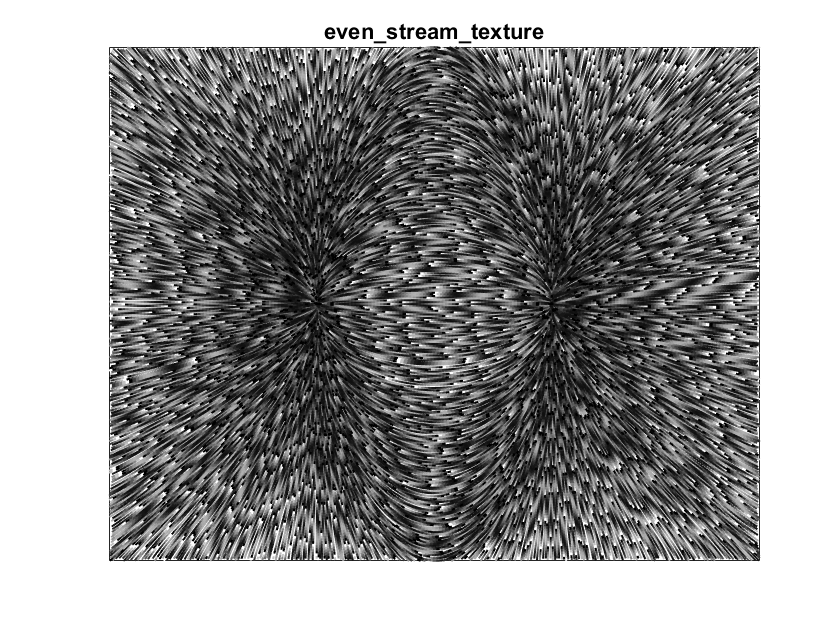
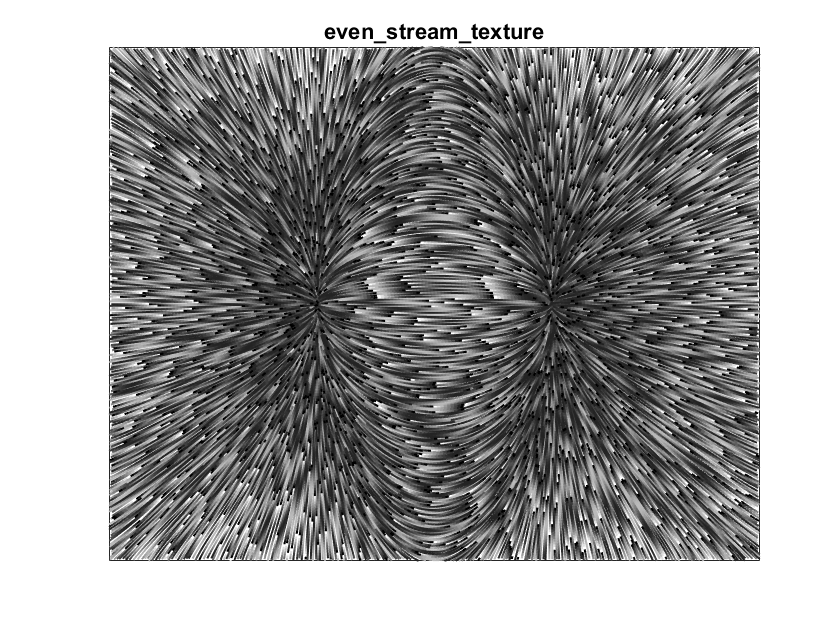
Updated docs, noted remaining tasks

diff --git a/even_stream_demo.html b/even_stream_demo.html
@@ -6,7 +6,7 @@
    <!--
 This HTML was auto-generated from MATLAB code.
 To make changes, update the MATLAB code and republish this document.
-      --><title>Evenly Spaced Streamlines</title><meta name="generator" content="MATLAB 9.0"><link rel="schema.DC" href="http://purl.org/dc/elements/1.1/"><meta name="DC.date" content="2016-10-02"><meta name="DC.source" content="even_stream_demo.m"><style type="text/css">
+      --><title>Evenly Spaced Streamlines</title><meta name="generator" content="MATLAB 9.0"><link rel="schema.DC" href="http://purl.org/dc/elements/1.1/"><meta name="DC.date" content="2016-10-03"><meta name="DC.source" content="even_stream_demo.m"><style type="text/css">
 html,body,div,span,applet,object,iframe,h1,h2,h3,h4,h5,h6,p,blockquote,pre,a,abbr,acronym,address,big,cite,code,del,dfn,em,font,img,ins,kbd,q,s,samp,small,strike,strong,sub,sup,tt,var,b,u,i,center,dl,dt,dd,ol,ul,li,fieldset,form,label,legend,table,caption,tbody,tfoot,thead,tr,th,td{margin:0;padding:0;border:0;outline:0;font-size:100%;vertical-align:baseline;background:transparent}body{line-height:1}ol,ul{list-style:none}blockquote,q{quotes:none}blockquote:before,blockquote:after,q:before,q:after{content:'';content:none}:focus{outine:0}ins{text-decoration:none}del{text-decoration:line-through}table{border-collapse:collapse;border-spacing:0}
 
 html { min-height:100%; margin-bottom:1px; }
@@ -100,8 +100,8 @@ ax = gca;
 ax.XTick = [];
 ax.YTick = [];
 fprintf(<span class="string">'even_stream_line: %.3f s elapsed\n'</span>, toc);
-</pre><pre class="codeoutput">even_stream_data: 0.674 s elapsed
-even_stream_line: 0.052 s elapsed
+</pre><pre class="codeoutput">even_stream_data: 0.795 s elapsed
+even_stream_line: 0.067 s elapsed
 </pre><img vspace="5" hspace="5" src="even_stream_demo_02.png" style="width:560px;height:420px;" alt=""> <h2>Plot stream lines with arrow glyphs<a name="3"></a></h2><p>Compute streamlines and plot lines with arrow glyphs to indicate flow direction.</p><pre class="codeinput"><span class="comment">% compute</span>
 tic
 xy = even_stream_data(xx, yy, dzdx, dzdy, 0.05, 0.025);
@@ -112,15 +112,15 @@ tic
 hf = figure;
 hf.Name = sprintf(<span class="string">'%s: even stream arrow'</span>, mfilename);
 even_stream_arrow(xy, <span class="string">'LineStyle'</span>, <span class="string">'-'</span>, <span class="string">'LineWidth'</span>, 0.5, <span class="string">'Color'</span>, <span class="string">'k'</span>, <span class="keyword">...</span>
-    <span class="string">'ArrowLength'</span>, 5, <span class="string">'ArrowTipAngle'</span>, 30, <span class="string">'ArrowBaseAngle'</span>, 10, <span class="keyword">...</span>
-    <span class="string">'ArrowSpace'</span>, 10);
+    <span class="string">'ArrowLength'</span>, 4, <span class="string">'ArrowTipAngle'</span>, 30, <span class="string">'ArrowBaseAngle'</span>, 10, <span class="keyword">...</span>
+    <span class="string">'ArrowSpace'</span>, 0.05*range(vv));
 title(<span class="string">'even\_stream\_arrow'</span>);
 ax = gca;
 ax.XTick = [];
 ax.YTick = [];
 fprintf(<span class="string">'even_stream_arrow: %.3f s elapsed\n'</span>, toc);
-</pre><pre class="codeoutput">even_stream_data: 0.714 s elapsed
-even_stream_arrow: 0.435 s elapsed
+</pre><pre class="codeoutput">even_stream_data: 0.621 s elapsed
+even_stream_arrow: 0.645 s elapsed
 </pre><img vspace="5" hspace="5" src="even_stream_demo_03.png" style="width:560px;height:420px;" alt=""> <h2>Plot tapered stream lines<a name="4"></a></h2><p>Plot stream lines with tapering effect, such that line width scales with the distance to the nearest neighboring streamline.</p><pre class="codeinput"><span class="comment">% compute</span>
 tic
 [xy, dist] = even_stream_data(xx, yy, dzdx, dzdy, 0.05, 0.025);
@@ -136,13 +136,9 @@ ax = gca;
 ax.XTick = [];
 ax.YTick = [];
 fprintf(<span class="string">'even_stream_taper: %.3f s elapsed\n'</span>, toc);
-</pre><pre class="codeoutput">even_stream_data: 1.612 s elapsed
-even_stream_taper: 0.134 s elapsed
-</pre><img vspace="5" hspace="5" src="even_stream_demo_04.png" style="width:560px;height:420px;" alt=""> <h2>Plot textured stream lines<a name="5"></a></h2><p>Plot streamlines with texture effect. This is most effective with closely-spaced streamlines, in which case it mimics the popular line-integral-convilution (LIC) method for visualizing flow fields.</p><pre class="codeinput"><span class="comment">% parameters</span>
-dist_sep = 0.003*range(vv);
-dist_test = 0.5*dist_sep;
-
-<span class="comment">% compute</span>
+</pre><pre class="codeoutput">even_stream_data: 1.599 s elapsed
+even_stream_taper: 0.156 s elapsed
+</pre><img vspace="5" hspace="5" src="even_stream_demo_04.png" style="width:560px;height:420px;" alt=""> <h2>Plot textured stream lines<a name="5"></a></h2><p>Plot streamlines with texture effect. This is most effective with closely-spaced streamlines, in which case it mimics the popular line-integral-convilution (LIC) method for visualizing flow fields.</p><pre class="codeinput"><span class="comment">% compute</span>
 tic
 xy = even_stream_data(xx, yy, dzdx, dzdy, 0.003, 0.0015);
 fprintf(<span class="string">'even_stream_data: %.3f s elapsed\n'</span>, toc);
@@ -151,14 +147,14 @@ fprintf(<span class="string">'even_stream_data: %.3f s elapsed\n'</span>, toc);
 tic
 hf = figure;
 hf.Name = sprintf(<span class="string">'%s: even stream texture'</span>, mfilename);
-even_stream_texture(xy, <span class="string">'LineWidth'</span>, 1, <span class="string">'Period'</span>, 20);
+even_stream_texture(xy, <span class="string">'LineWidth'</span>, 1, <span class="string">'Period'</span>, 0.20*range(vv));
 title(<span class="string">'even\_stream\_texture'</span>);
 ax = gca;
 ax.XTick = [];
 ax.YTick = [];
 fprintf(<span class="string">'even_stream_texture: %.3f s elapsed\n'</span>, toc);
-</pre><pre class="codeoutput">even_stream_data: 236.974 s elapsed
-even_stream_texture: 0.592 s elapsed
+</pre><pre class="codeoutput">even_stream_data: 247.593 s elapsed
+even_stream_texture: 0.752 s elapsed
 </pre><img vspace="5" hspace="5" src="even_stream_demo_05.png" style="width:560px;height:420px;" alt=""> <h2>References<a name="6"></a></h2><div><ol><li>Jobard, B., &amp; Lefer, W. (1997). Creating Evenly-Spaced Streamlines of   Arbitrary Density. In W. Lefer &amp; M. Grave (Eds.), Visualization in   Scientific Computing ?97: Proceedings of the Eurographics Workshop in   Boulogne-sur-Mer France, April 28--30, 1997 (pp. 43?55). inbook,   Vienna: Springer Vienna. <a href="http://doi.org/10.1007/978-3-7091-6876-9_5">http://doi.org/10.1007/978-3-7091-6876-9_5</a></li></ol></div><p class="footer"><br><a href="http://www.mathworks.com/products/matlab/">Published with MATLAB&reg; R2016a</a><br></p></div><!--
 ##### SOURCE BEGIN #####
 %% Evenly Spaced Streamlines
@@ -227,8 +223,8 @@ tic
 hf = figure;
 hf.Name = sprintf('%s: even stream arrow', mfilename);
 even_stream_arrow(xy, 'LineStyle', '-', 'LineWidth', 0.5, 'Color', 'k', ...
-    'ArrowLength', 5, 'ArrowTipAngle', 30, 'ArrowBaseAngle', 10, ...
-    'ArrowSpace', 10);
+    'ArrowLength', 4, 'ArrowTipAngle', 30, 'ArrowBaseAngle', 10, ...
+    'ArrowSpace', 0.05*range(vv));
 title('even\_stream\_arrow');
 ax = gca;
 ax.XTick = [];
@@ -260,10 +256,6 @@ fprintf('even_stream_taper: %.3f s elapsed\n', toc);
 % closely-spaced streamlines, in which case it mimics the popular
 % line-integral-convilution (LIC) method for visualizing flow fields.
 
-% parameters
-dist_sep = 0.003*range(vv);
-dist_test = 0.5*dist_sep;
-
 % compute
 tic
 xy = even_stream_data(xx, yy, dzdx, dzdy, 0.003, 0.0015);
@@ -273,7 +265,7 @@ fprintf('even_stream_data: %.3f s elapsed\n', toc);
 tic
 hf = figure;
 hf.Name = sprintf('%s: even stream texture', mfilename);
-even_stream_texture(xy, 'LineWidth', 1, 'Period', 20);
+even_stream_texture(xy, 'LineWidth', 1, 'Period', 0.20*range(vv));
 title('even\_stream\_texture');
 ax = gca;
 ax.XTick = [];
